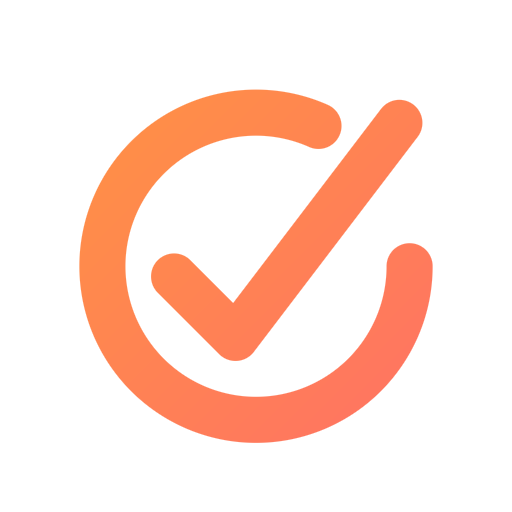
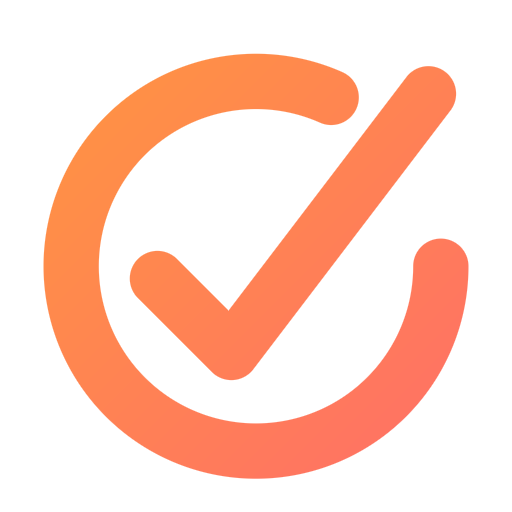
The mark was the small one in a row of the suite's headers
Aidin put Jot's header next to Nib's and Jot's mark looked shrunken. Measured
rather than eyeballed: the ring's ink covered 69% of its box, while Nib's mark and
Tend's both cover 83%. So it was not an impression - Jot's mark really was a fifth
smaller than its siblings at the same nominal size.

Scaled, not redrawn: FULL by 1.203 about its own centre, SMALL by 1.078, both
landing on 83%, and JotMark.tsx carries the same factor so the header and the
taskbar still show one drawing. The ring's dash had to be recomputed with the
radius - 185 of 227 units now, which is the same 294 degrees as before.

The 16px frame is the one this could have ruined, since a heavier ring closes its
own counter. Checked against the previous build frame by frame: 13 clear pixels in
the middle third against 15 before, ink 50% of the frame against 44%. Slightly
heavier, still open, still legible as a ring with a tick leaving it.

diff --git a/src/renderer/src/main/JotMark.tsx b/src/renderer/src/main/JotMark.tsx
@@ -15,7 +15,7 @@ export function JotMark({ size = 20 }: { size?: number }): JSX.Element {
       viewBox="0 0 100 100"
       fill="none"
       stroke="url(#jot-flame)"
-      strokeWidth={9}
+      strokeWidth={10.8}
       strokeLinecap="round"
       strokeLinejoin="round"
       aria-hidden="true"
@@ -26,11 +26,19 @@ export function JotMark({ size = 20 }: { size?: number }): JSX.Element {
           <stop offset="1" stopColor="#ff6b6b" />
         </linearGradient>
       </defs>
-      {/* The circle, interrupted at the top right where the tick's arm exits.
-          The dashes are the interruption: 154 of the 188 unit circumference
-          drawn, the rest left open. */}
-      <circle cx="50" cy="52" r="30" strokeDasharray="154 34" />
-      <path d="M34 54 L46 66 L78 24" />
+      {/*
+        The circle, interrupted at the top right where the tick's arm exits.
+        The dashes are the interruption: 185 of the 227 unit circumference drawn -
+        the same 294 degrees as before - and the rest left open.
+
+        Everything here is the original drawing scaled by 1.203 about (50, 52).
+        At the old size the ring's ink spanned 69% of the box while Nib's mark and
+        Tend's both span 83%, so in a row of the suite's headers Jot read as the
+        small one. Scaled rather than re-drawn, and the icon generator is scaled by
+        the same factor, so the window and the taskbar still show one mark.
+      */}
+      <circle cx="50" cy="52" r="36.1" strokeDasharray="185 42" />
+      <path d="M30.8 54.4 L45.2 68.8 L83.7 18.3" />
     </svg>
   )
 }
